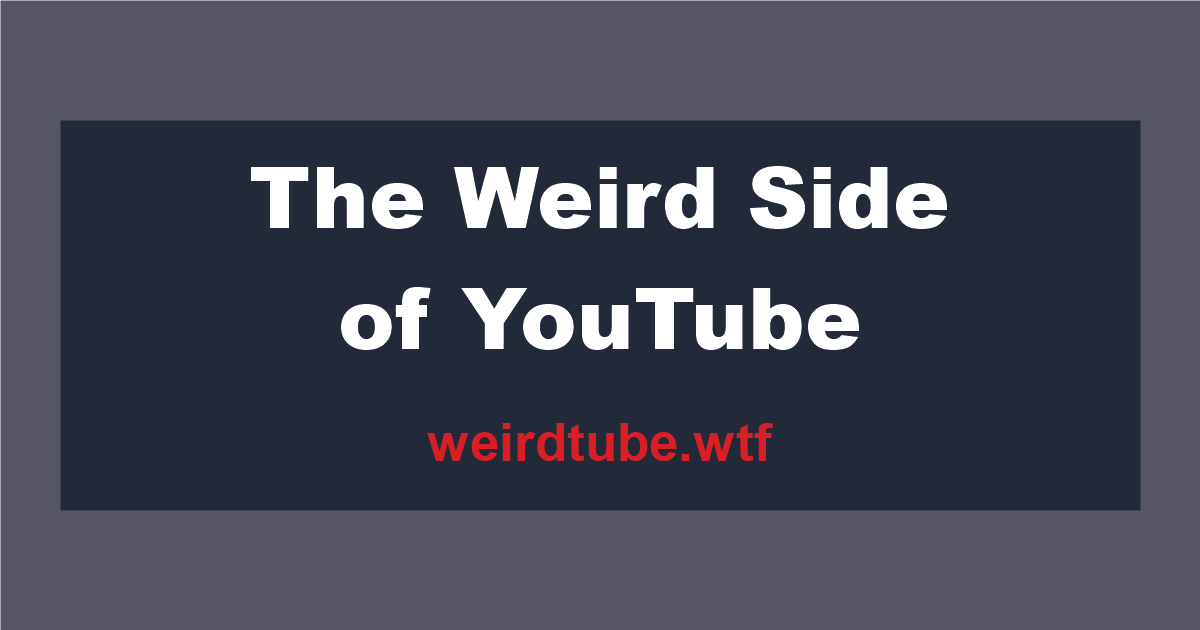
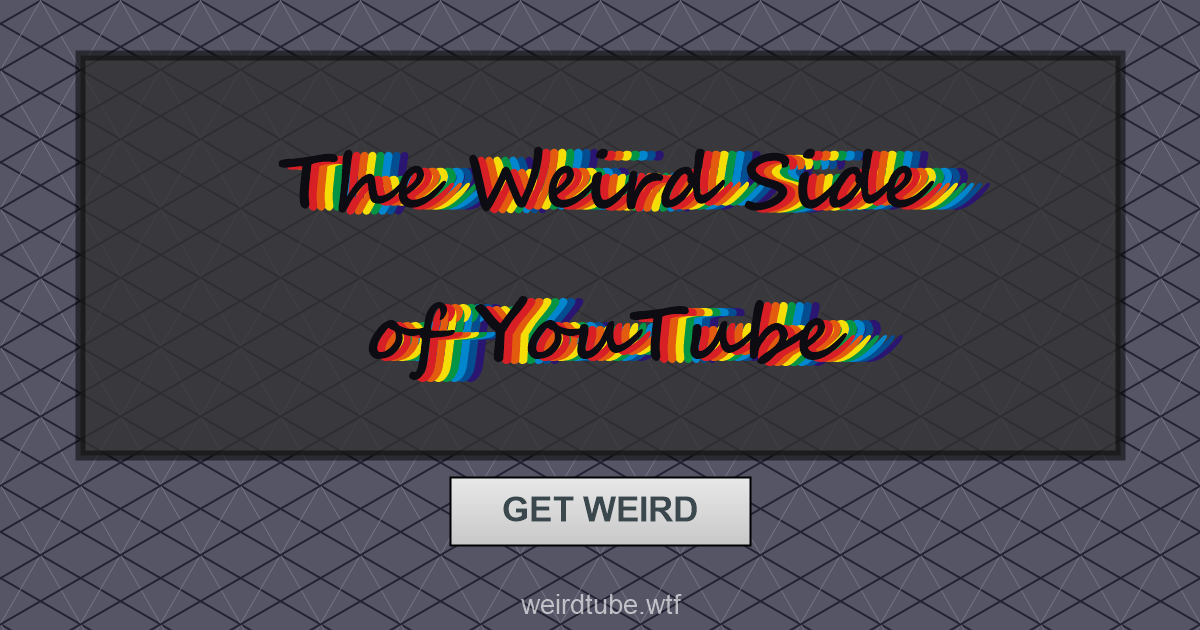
Improve OG share image; disable Reddit auto-crawl
- Regenerate og-image.png to match site aesthetic: isometric cube
  background, rainbow text shadow, GET WEIRD button, weirdtube.wtf domain
- Disable automatic nightly Reddit crawl (remove node-schedule job);
  manual trigger via admin panel button still works

diff --git a/controllers/reddit.js b/controllers/reddit.js
@@ -3,7 +3,6 @@
 
 var api = require('./api');
 var request = require('request');
-var schedule = require('node-schedule');
 
 exports.crawlRedditUrl = function(reddit_url)
 {
@@ -50,5 +49,5 @@ exports.crawlReddit = function() {
   console.log('Finished crawling r/InterdimensionalCable monthly');
 };
 
-// Run daily
-schedule.scheduleJob('0 0 * * *', exports.crawlReddit);
+// Automatic scheduling intentionally disabled.
+// Trigger manually via the admin panel ("Crawl /r/DeepIntoYoutube" button).